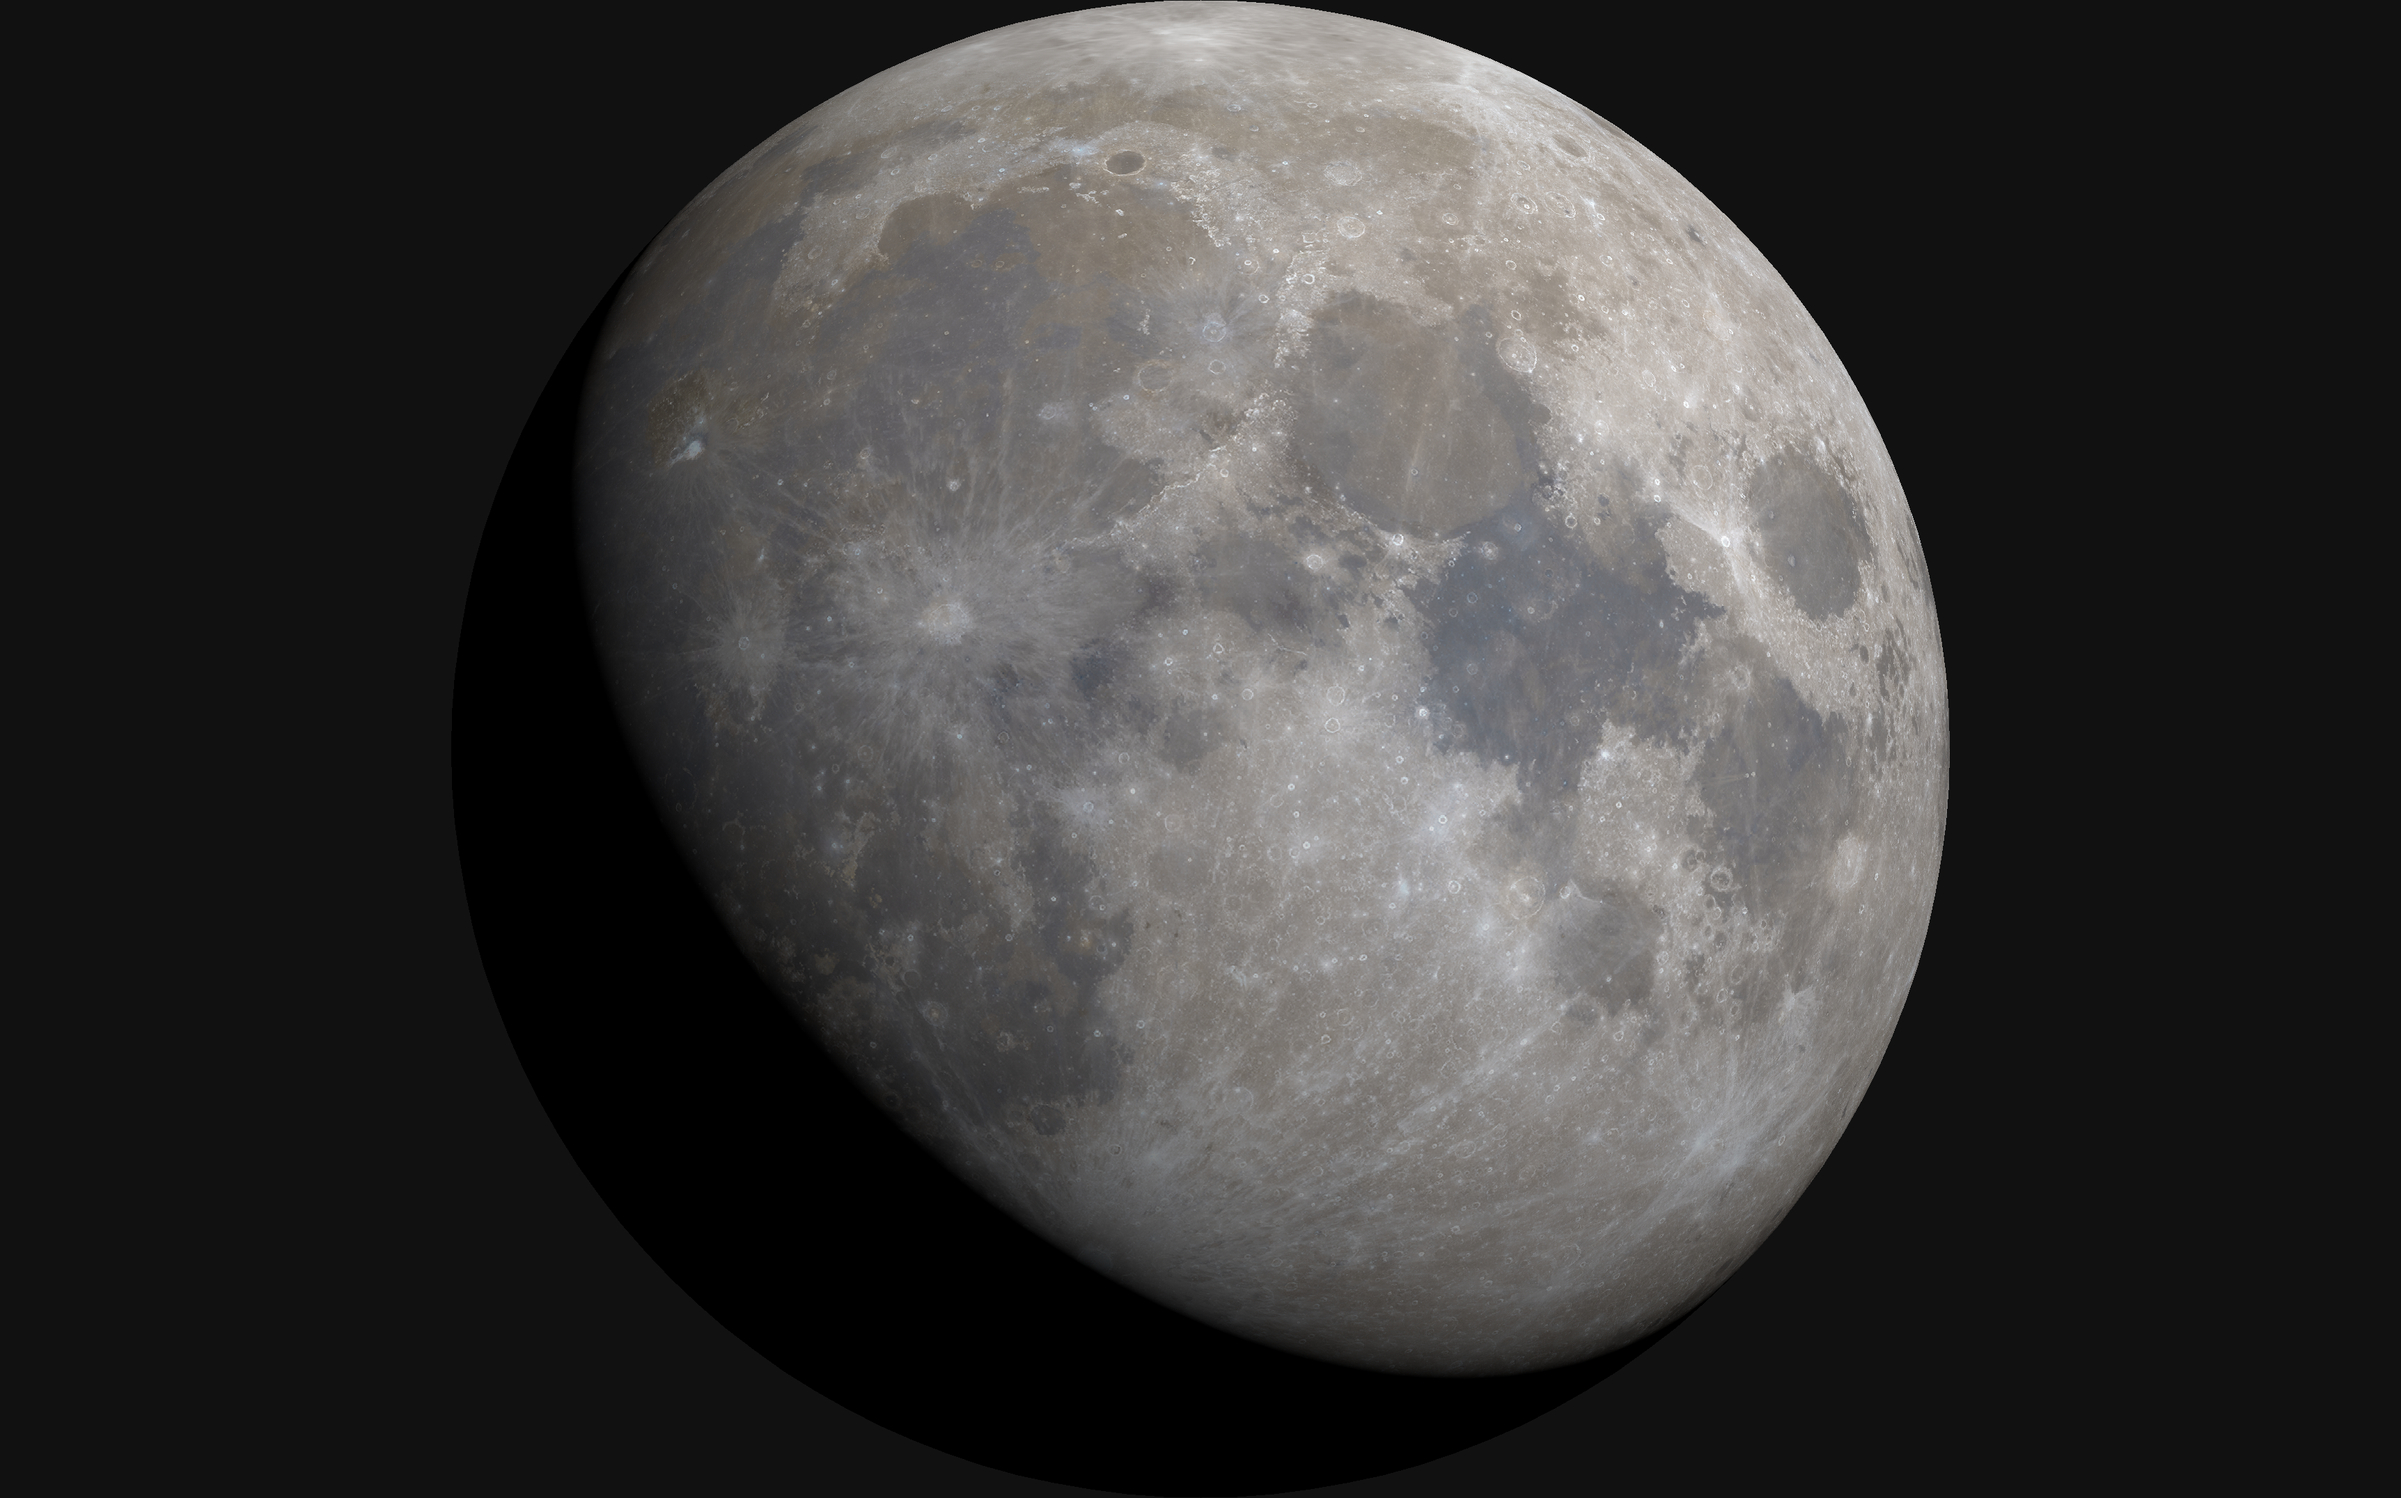
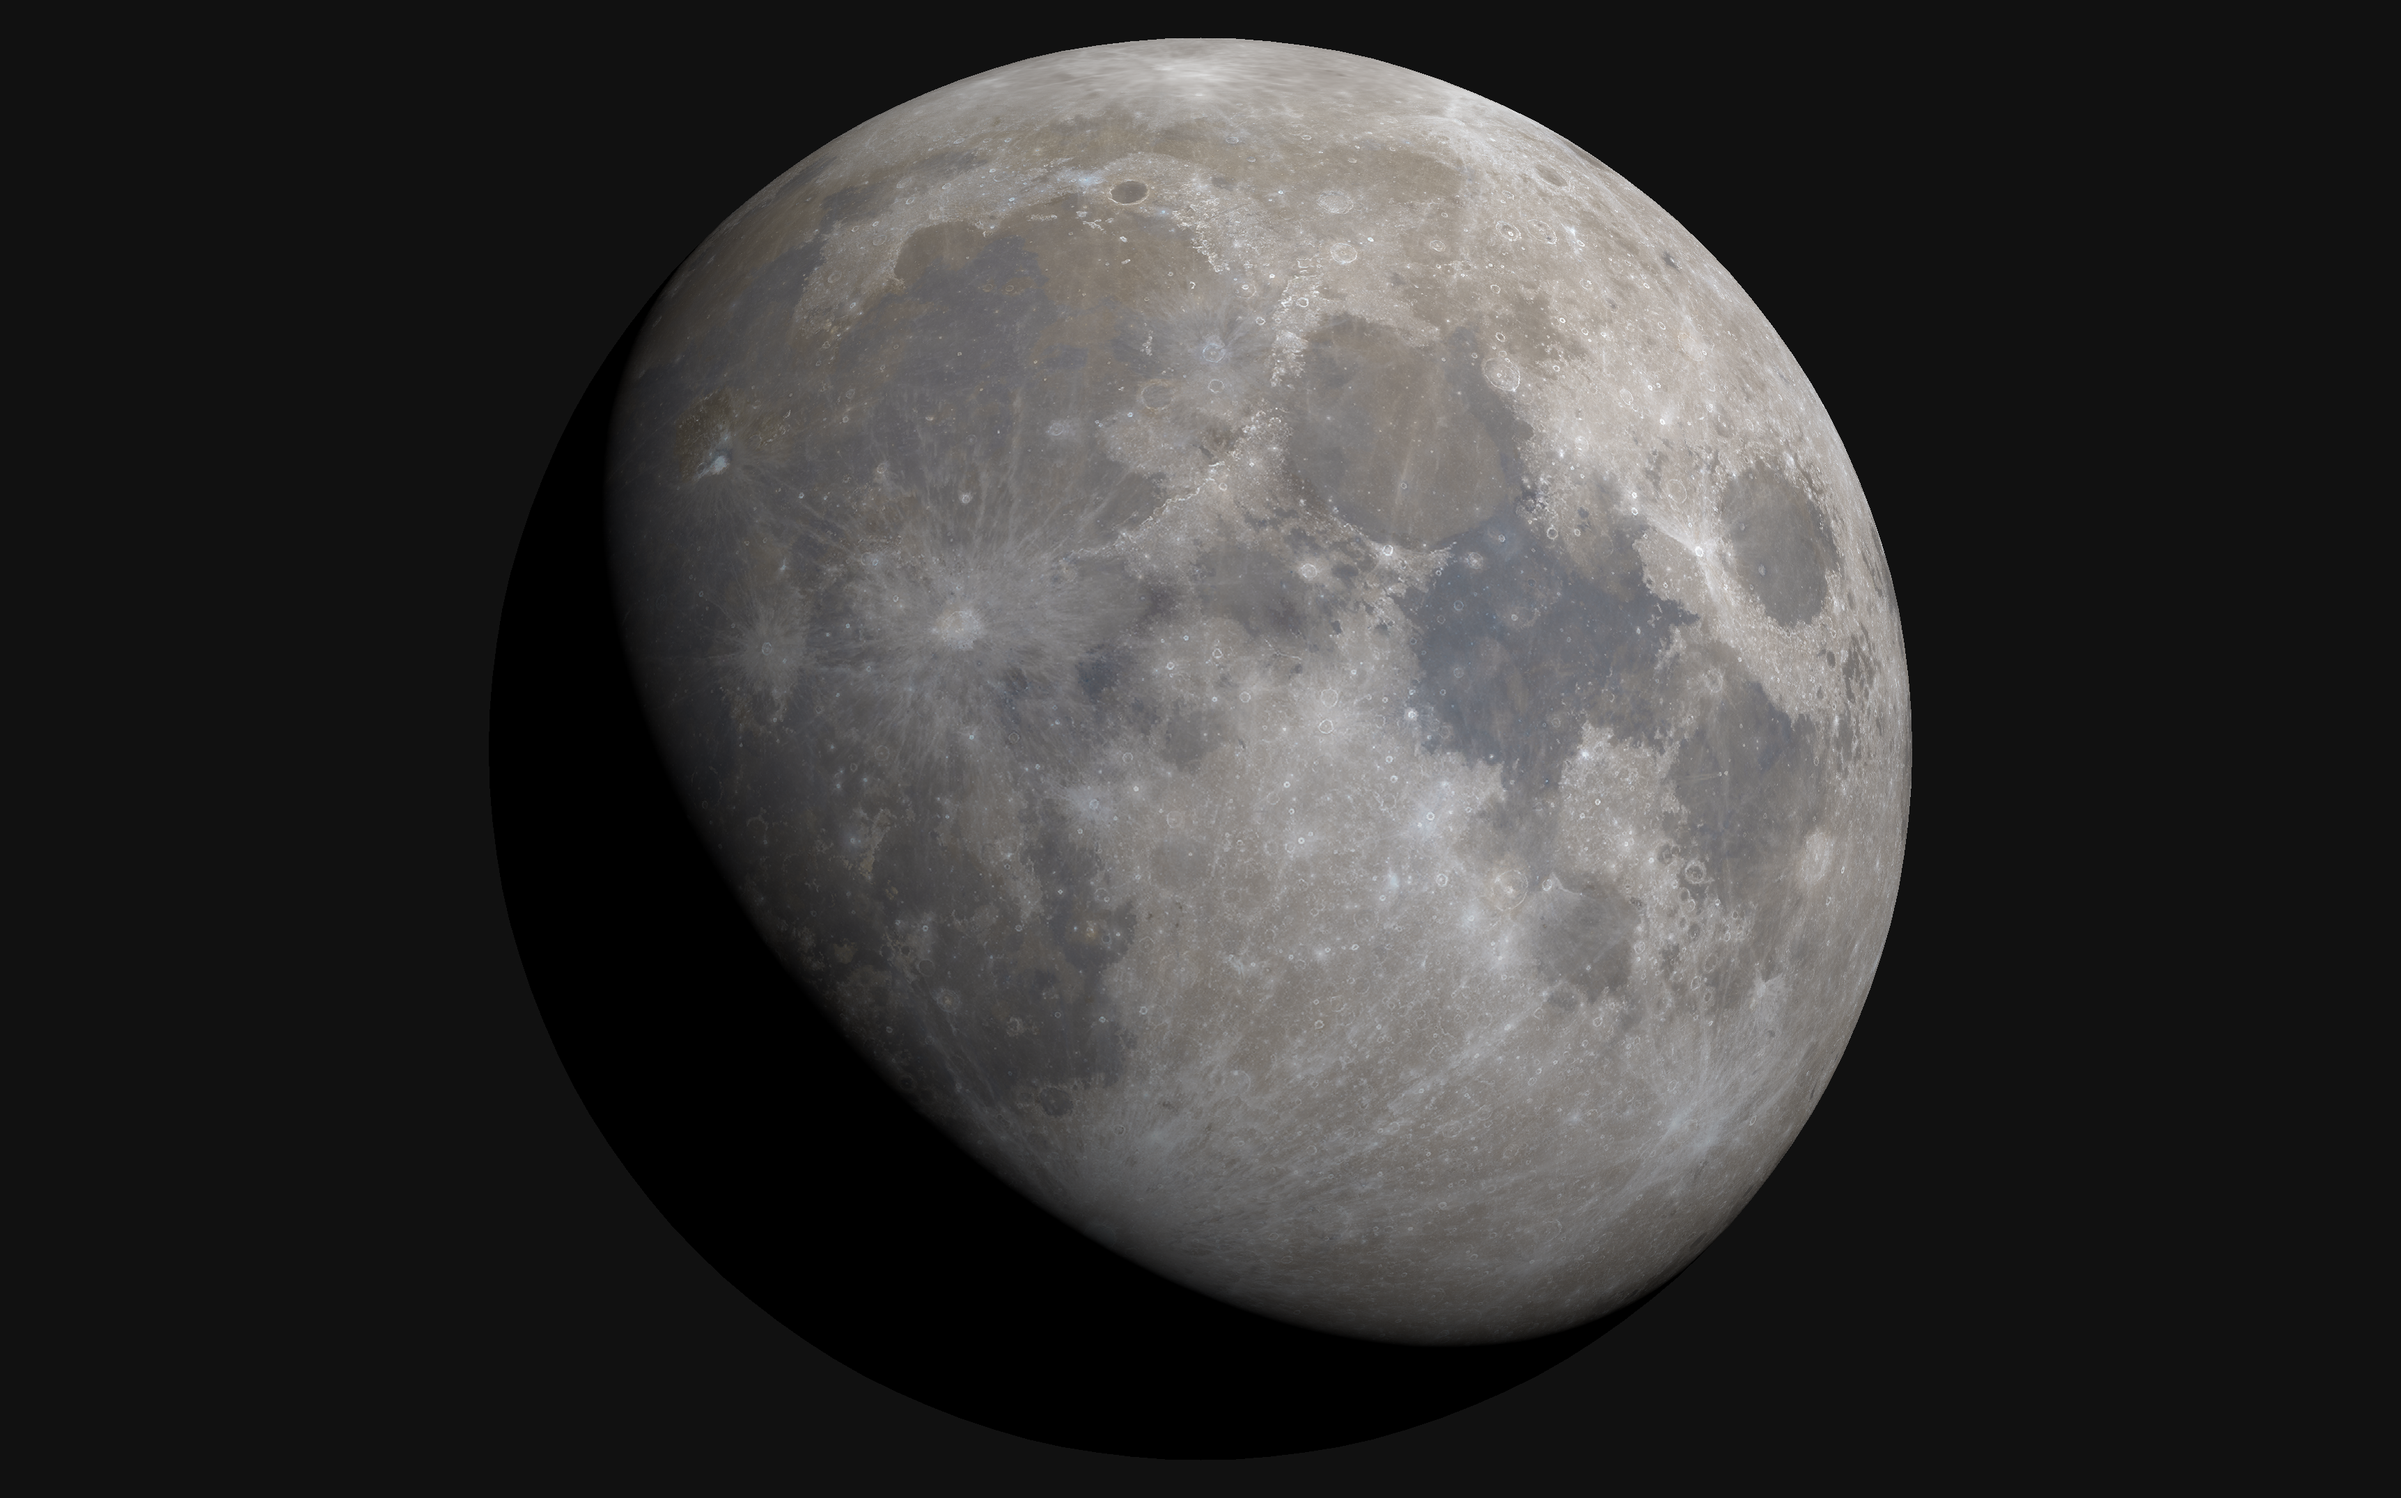
Scaling the Moon in a mugshot

diff --git a/src/bin/lunar-mugshot/main.rs b/src/bin/lunar-mugshot/main.rs
@@ -2,7 +2,7 @@ mod kitty_terminal;
 use std::path::Path;
 use std::thread;
 
-use glam::Vec3;
+use glam::{Mat4, Vec3};
 
 use mare_imbrium::{Camera, FrameBuffer, WebpEncoder, main_scene::Scene};
 
@@ -17,9 +17,9 @@ fn main() -> Result<(), Box<dyn std::error::Error>> {
     let (width, height) = terminal.pixel_dimensions()?;
     let framebuffer = render_scene(width, height);
 
-    let fb_clone = framebuffer.clone();
-    let handle = thread::spawn(move || save_webp(&fb_clone).unwrap());
     display_in_terminal(&mut terminal, &framebuffer)?;
+    let handle = thread::spawn(move || save_webp(&framebuffer).unwrap());
+    println!("Saving webp...");
     handle.join().unwrap();
 
     Ok(())
@@ -28,7 +28,8 @@ fn main() -> Result<(), Box<dyn std::error::Error>> {
 fn render_scene(width: u32, height: u32) -> FrameBuffer {
     let mut framebuffer = FrameBuffer::new(width, height);
     let camera = Camera::for_viewport(width, height).move_to(CAMERA_POS);
-    let scene = Scene::new(SUN_DIRECTION.into());
+    let mut scene = Scene::new(SUN_DIRECTION.into());
+    scene.set_pose_transform(Mat4::from_scale(Vec3::splat(0.95)));
 
     scene.render(&mut framebuffer, &camera);
     framebuffer
